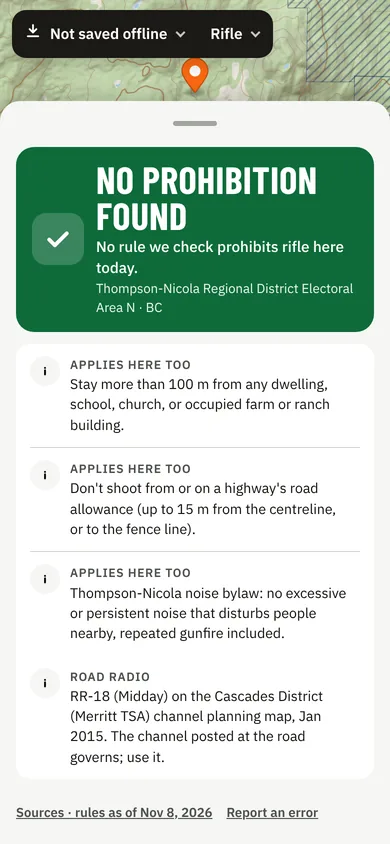
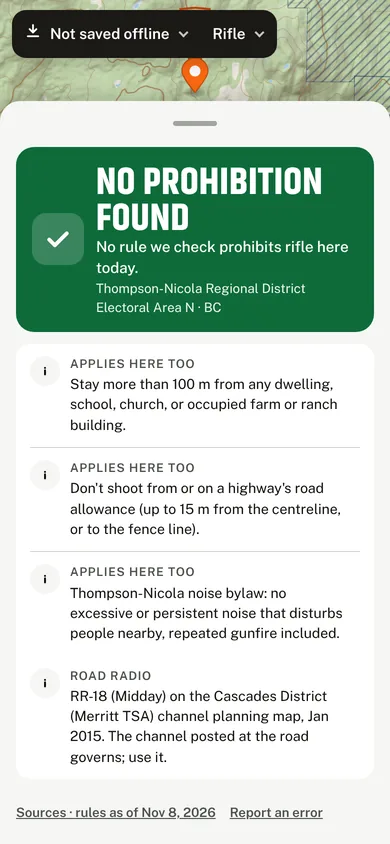
Landing screens in the new family fonts (from shootable's web/)

diff --git a/README.md b/README.md
@@ -17,7 +17,7 @@ Prohibited and amber only Not confirmed, as in the app; hazards in the diagrams 
 ## App screens
 
 Phone screens are screenshots of the real app (`app/`, built with `python3 app/build.py release` on the `data-bc` pack and
-the fire feed), at 390x844 and 2x, saved as `.webp` (2x) and `-1x.webp`. Map: the self-hosted topo (OpenStreetMap via
+the fire feed), at 390x844 and 2x, saved as `.webp` (2x) and `-1x.webp`, by shootable's `scripts/store/site_shots.py`. Map: the self-hosted topo (OpenStreetMap via
 Protomaps, Copernicus DEM), credited in the footer.
 
 | File | View | Firearm |
